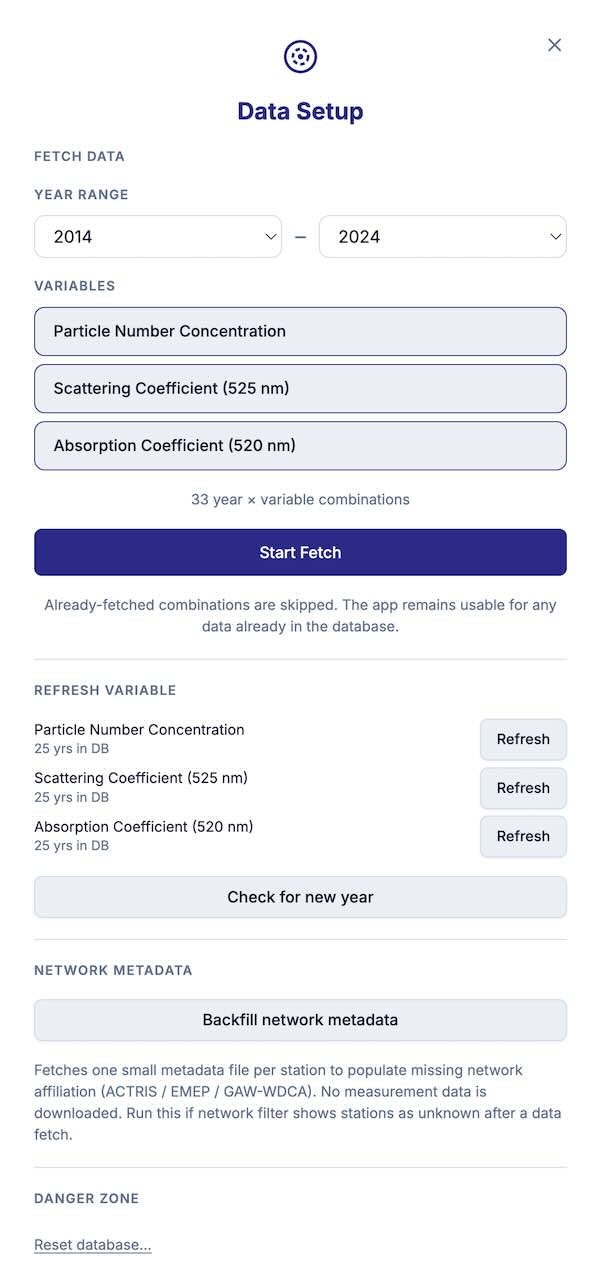
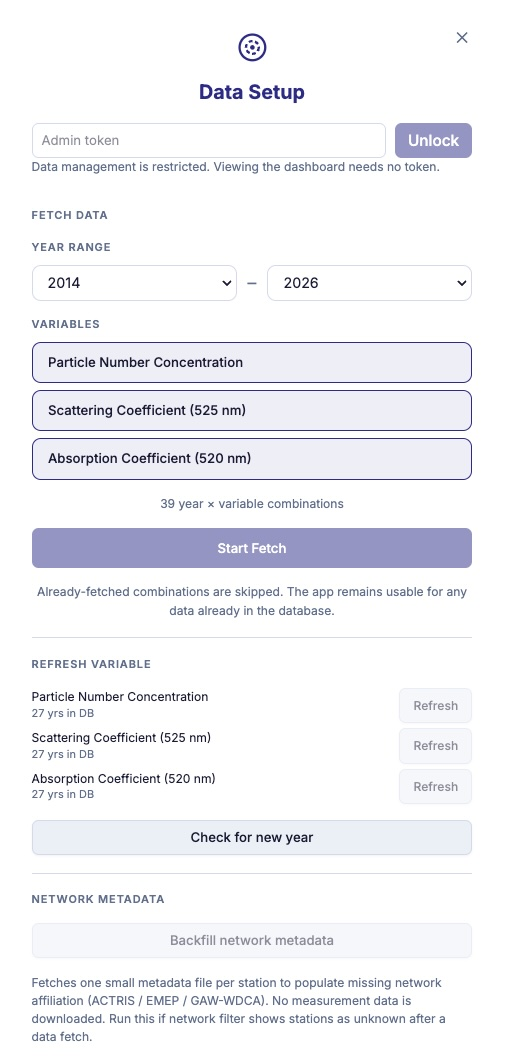
docs: refresh the screenshots and their captions
Both images retaken against the current interface. Drops the staleness note
that flagged them as predating near-real-time links, and rewrites the captions
to describe what the new frames actually show rather than what the old ones
did: the pinned station panel with its Level 2 annual mean beside the live-data
link and its Level 1.5 caveat, the cyan markers for sites with no Level 2
record, and the Data Setup panel's admin token with the reminder that viewing
needs none.

diff --git a/README.md b/README.md
@@ -20,16 +20,11 @@ Wavelengths are the values the fetch targets (`backend/variables.py`); selection
 
 ## Screenshots
 
-> **These predate the current interface.** They were taken before near-real-time
-> links were added, so they show neither the station detail panel that opens on
-> click, nor the live-data markers and badges, and the variable labels still read
-> 550 nm rather than 525/520 nm. To be retaken.
-
-![Map view showing station concentrations with network filter and hover tooltip](docs/Actris%20Monitor%20-%20Application%20UI.jpg)
-*Main map view — station concentrations for 2011 N variable, all three network filters active, Pallas (Sammaltunturi) tooltip open*
+![Map view with the Pallas station detail panel open, showing its annual mean and a link to near-real-time data](docs/Actris%20Monitor%20-%20Application%20UI.jpg)
+*Main map view — 2025 particle number concentration, with Pallas (Sammaltunturi) pinned. The panel shows the Level 2 annual mean and year-on-year change, then the live-data section linking through to EBAS near-real-time with its Level 1.5 caveat. Small cyan markers are sites that report live data but have no Level 2 record here.*
 
 ![Data Setup panel for fetching and managing measurement data](docs/Actris%20Monitor%20-%20Data%20Setup%20View.jpg)
-*Data Setup panel — year range selection, per-variable refresh, network metadata backfill*
+*Data Setup panel — admin token, year range and variable selection, per-variable refresh, and network metadata backfill. Viewing the dashboard needs no token; only data management does.*
 
 ## Interface
 
